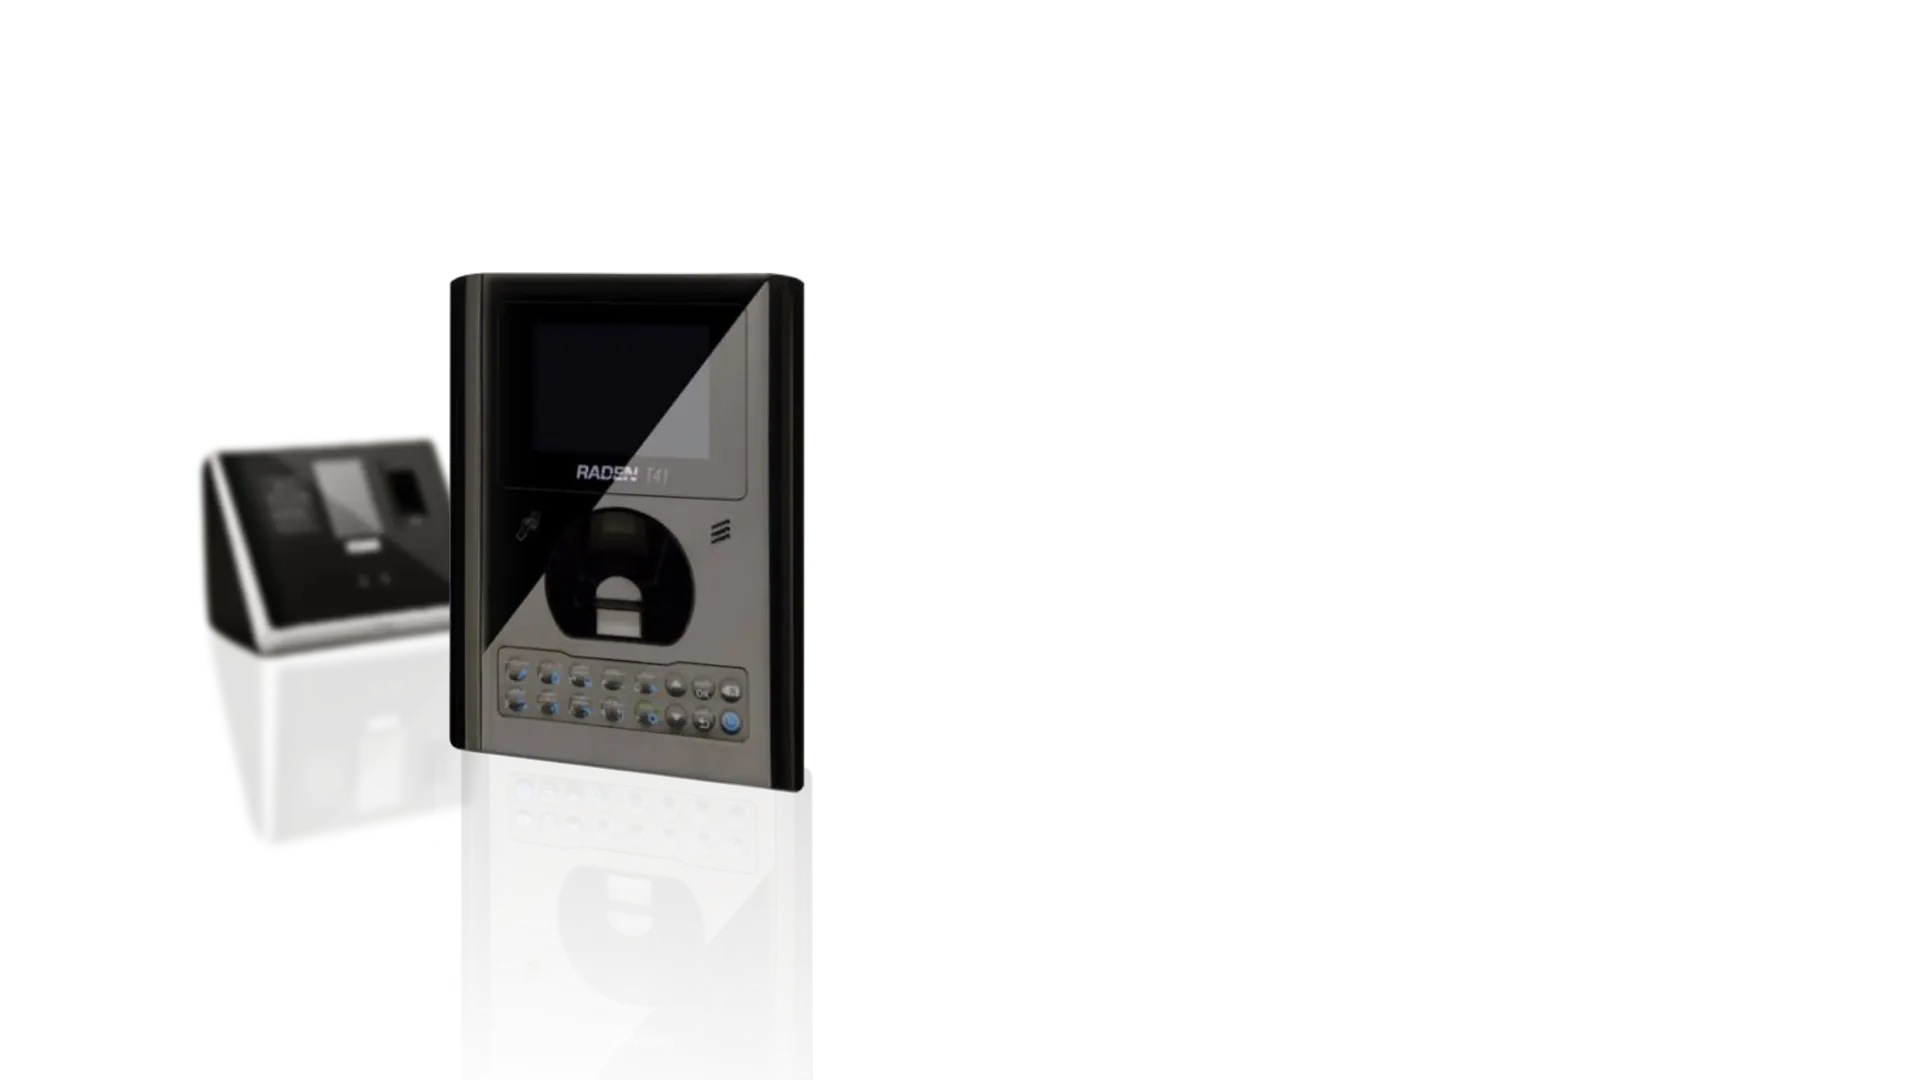
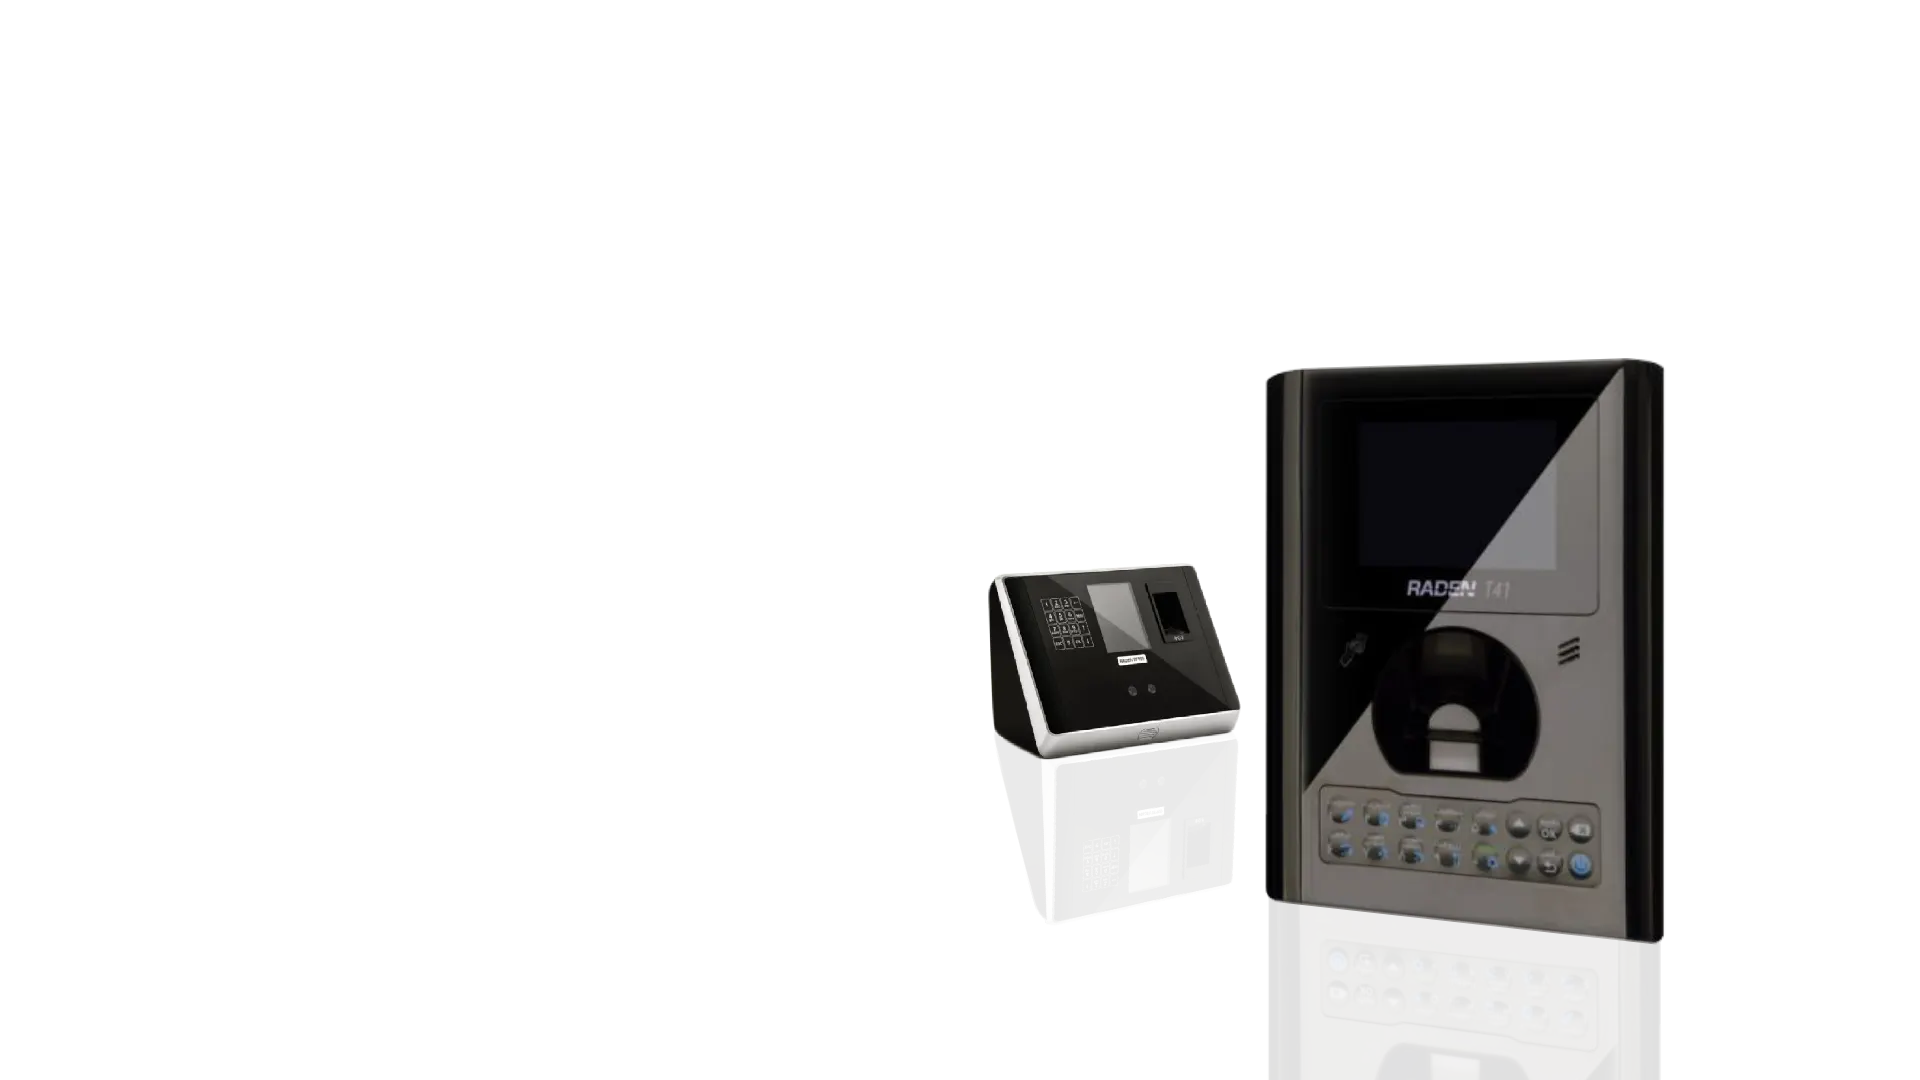
fix(advantage): fix first section

Changed region(s): [[0.5, 0.3056, 0.875, 1.0], [0.0938, 0.2444, 0.4375, 0.7944], [0.7188, 0.8861, 0.75, 0.9167]]

diff --git a/src/components/Advantage/index.tsx b/src/components/Advantage/index.tsx
@@ -119,8 +119,7 @@ export default function Advantage() {
     if (index < 7) {
       setIndex(index + 1);
     } else {
-      setNextSection(3);
-      setActiveSection(null);
+      setActiveSection(3);
     }
   };
 
@@ -128,8 +127,7 @@ export default function Advantage() {
     if (index > 0) {
       setIndex(index - 1);
     } else {
-      setNextSection(1);
-      setActiveSection(null);
+      setActiveSection(1);
     }
   };
 
@@ -161,6 +159,7 @@ export default function Advantage() {
   return (
     <AdvantageSection
       // onWheel={(e) => e.stopPropagation()}
+      {...bind()}
       active={active}
       // style={sectionStyle}
       status={nextSection === 2 ? "show" : nextSection < 2 ? "before" : "after"}

diff --git a/src/components/Advantage/advantageItems/index.tsx b/src/components/Advantage/advantageItems/index.tsx
@@ -19,7 +19,7 @@ import LaptopImage1 from "./assets/laptop.webp";
 import LaptopImage2 from "./assets/laptop2.webp";
 import managementImage from "./assets/management.webp";
 import laughingManImage from "./assets/laughingMan.webp";
-import DeviceImage from "./assets/device.png";
+import DeviceImage from "./assets/device.webp";
 import Badge from "./assets/freeTest.webp";
 import MobilePic from "./assets/mobile.png";
 import FastDetection from "./fastDetection";
@@ -177,8 +177,6 @@ export default function AdvantagesList({
         src={laughingManImage}
         alt="تنظیم قوانین و مقررات"
       />
-
-      <Image style={deviceStyle} src={Badge} alt="نشان رایگان" />
     </Advantages>
   );
 }
